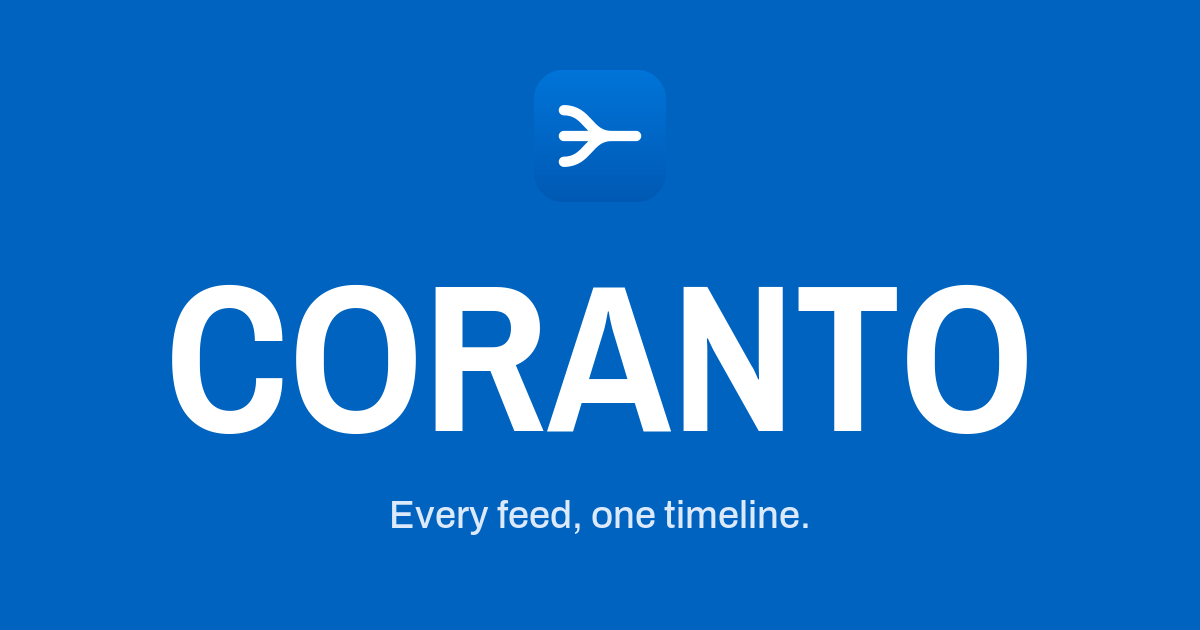
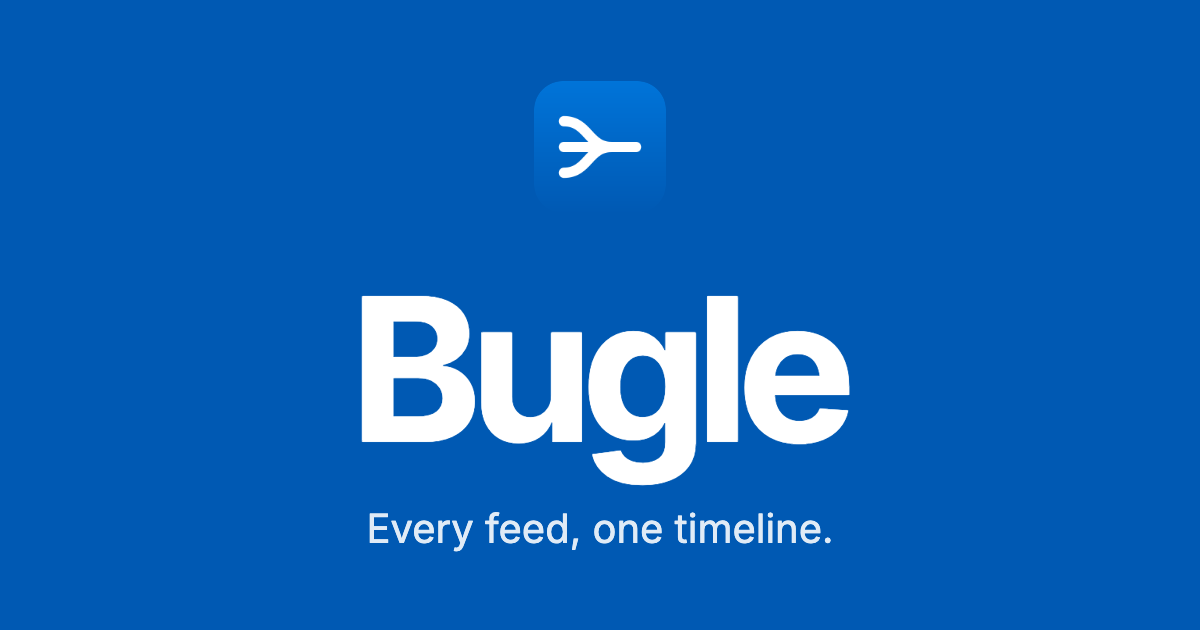
bugle: share card says Bugle (it still said CORANTO), new og:image URL so iMessage refetches
Claude-Session: https://claude.ai/code/session_01WK635nmVgnoRhWMPtJwkpw

Changed region(s): [[0.1233, 0.4524, 0.8633, 0.8746], [0.4317, 0.0905, 0.555, 0.3016]]

diff --git a/web/index.html b/web/index.html
@@ -19,9 +19,9 @@
 <meta property="og:title" content="Bugle. Every feed, one timeline.">
 <meta property="og:description" content="Add any blog, paper or Hacker News, and read everything in one timeline, newest first.">
 <meta property="og:url" content="https://bugle.jaybulb.com/">
-<meta property="og:image" content="https://bugle.jaybulb.com/og.png">
+<meta property="og:image" content="https://bugle.jaybulb.com/og.png?v=2">
 <meta name="twitter:card" content="summary_large_image">
-<meta name="twitter:image" content="https://bugle.jaybulb.com/og.png">
+<meta name="twitter:image" content="https://bugle.jaybulb.com/og.png?v=2">
 <link rel="preload" href="fonts/BugleDisplay-Bold.woff2" as="font" type="font/woff2" crossorigin>
 <link rel="stylesheet" href="tokens.css">
 <link rel="stylesheet" href="landing.css">
